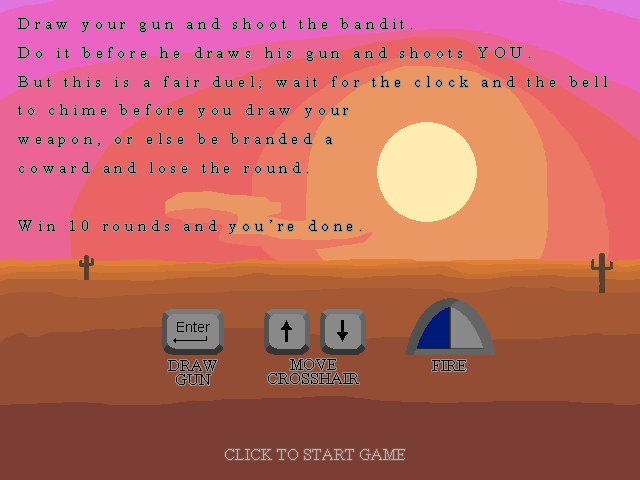
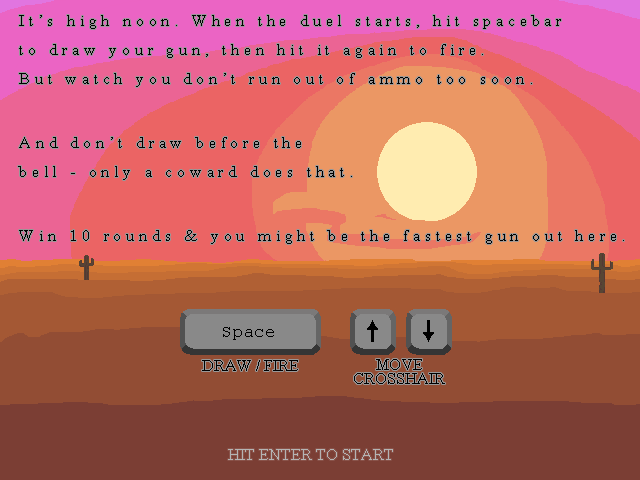
Update portfolio page, new images, blurbs, readme

diff --git a/portfolioGames.js b/portfolioGames.js
@@ -5,8 +5,13 @@ const games = [
   {
     name: "DEADWOOD DUEL",
     platform: "Stencyl",
-    images: ["images/games/dd/dd01.png", "images/games/dd/dd02.png"],
-    video: ["images/games/dd/dd_gameplay.webm"],
+    images: [
+      "images/games/dd/dd01.png",
+      "images/games/dd/dd02.png",
+      "images/games/dd/dd03.png",
+      "images/games/dd/dd04.png",
+    ],
+    video: [], // ["images/games/dd/dd_gameplay.webm"], ---> Restore this later maybe, getting videos for everything
     blurbLines: [
       "A reflex shooter set in the Old West.",
       "Choose your difficulty, watch the clock, and be quick - or be dead.",
@@ -17,7 +22,7 @@ const games = [
   },
   {
     name: "LOONY LAB",
-    platform: "Unity",
+    platform: "Unity with C#",
     images: [
       "images/games/ll/ll01.png",
       "images/games/ll/ll02.png",
@@ -27,8 +32,8 @@ const games = [
     video: [],
     blurbLines: [
       "Loony Lab was part of a research project headed by Steve Engels at the University of Toronto, studying the effectiveness of design changes in pedagogical techniques in videogames. The material was taken straight from high school curriculum.",
-      "Working with a partner, we created a game design document, recorded progress in a dev blog, ran playtests with various demographics including game industry professionals, conducted two rounds of research with the game using self-developed study instruments, and produced a final report on our findings.",
-      "I contributed code (C#), design, art, animation, and sound. Royalty-free visual assets were modified to suit our needs.",
+      "Working with a partner, the two of us created a game design document, recorded progress in a dev blog, ran playtests with various demographics including game industry professionals, conducted two rounds of research with the game using self-developed study instruments, and produced a final report on our findings.",
+      "I contributed code, design, art, animation, and sound. Royalty-free visual assets were modified to suit our needs.",
     ],
     linkURLs: [
       "data/downloads/LoonyLab_Winx86-64.zip",
@@ -45,19 +50,10 @@ const games = [
     blurbLines: [
       "A simple interactive ray tracer running on the CPU and built on top of the Eigen linear algebra library.",
       'RaylTime allows you to move around raytraced scenes in real-time, and features a text-based "level editing" system allowing you to quickly make new scenes which you can move around in.',
-      "RaylTime employs a number of raytracing optimizations including bounding volume hierarchies and specular highlights optimization, along with a lower resolution so that it can be run in real-time rather than offline.",
+      "RaylTime employs a number of raytracing optimizations including bounding volume hierarchies and specular highlights optimization to keep things running in real time.",
     ],
     linkURLs: ["https://www.google.ca", "https://github.com/NPTP/RaylTime"],
     linkTexts: ["TODO: Download for Windows", "Source on GitHub"],
-  },
-  {
-    name: "KCSHARE",
-    platform: "Web & Mobile with React & React Native",
-    images: ["images/index_placeholder1.jpg"],
-    video: [],
-    blurbLines: ["TODO!"],
-    linkURLs: ["https://github.com/NPTP/KCShare"],
-    linkTexts: ["Source on GitHub"],
   },
   {
     name: "GAME JAMS",
@@ -70,8 +66,8 @@ const games = [
     ],
     video: [],
     blurbLines: [
-      `For several game jams in Toronto, I've worked with a team consisting of a designer, an artist and a programmer, all of whom have experience either in AAA or indie game production. They're a truly talented bunch and it's been a privilege to do these jams with them under the team banner of "ButterBrains."`,
-      "We put or heads together to create the high-level designs for these games as a group. I did all sound and music, and some level design.",
+      `For several game jams in Toronto, I've worked with a team consisting of a designer, an artist and a programmer, all of whom have experience either in AAA or indie game production. They're a truly talented bunch and it's been a privilege to do these jams with them under the banner of "ButterBrains."`,
+      "We put or heads together and designed the games as a group. Additionally, I did all sound and music, and some level design.",
     ],
     linkURLs: [
       "https://butterbrains.itch.io/relapse",
@@ -87,22 +83,32 @@ const games = [
     ],
   },
   {
+    name: "KCSHARE",
+    platform: "Web & Mobile with React & React Native",
+    images: ["images/index_placeholder1.jpg"],
+    video: [],
+    blurbLines: [
+      "A combo web and mobile app with unique experiences for each, designed as a prototype for a private high school's new learning platform.",
+      "KCShare allows students to share their learning and unique experiences with other students and teachers in a low-pressure social space.",
+      "Working with a team, I contributed team leadership, web and mobile code, and design, as we translated client needs into finished product.",
+    ],
+    linkURLs: ["https://github.com/NPTP/KCShare"],
+    linkTexts: ["Source on GitHub"],
+  },
+  {
     name: "INDUSTRIAL SECTOR",
     platform: "GZDoom",
     images: [
-      "images/games/is/is01.png",
-      "images/games/is/is05.png",
-      "images/games/is/is02.png",
-      "images/games/is/is05.png",
-      "images/games/is/is03.png",
-      "images/games/is/is05.png",
-      "images/games/is/is04.png",
+      "images/games/industrialsector/is01.png",
+      "images/games/industrialsector/is02.png",
+      "images/games/industrialsector/is03.png",
+      "images/games/industrialsector/is04.png",
     ],
     video: [],
     blurbLines: [
       "A high-concept, grim post-apocalyptic mod for Doom (1993) built on a modern port of the game's open-source engine.",
-      "A work-in-progress passion project where I produce code, mapping, level design, music, sound design, animation, and narrative, while keeping the core of the game's assets and design in the classic Doom mould.",
-      "It's also using existing resources and tools made available by people in the incredible community around DooM that is still flourishing today.",
+      "A work-in-progress passion project where I produce code, levels, music, sound, animation, and narrative, while keeping the core of the game's assets and design in the classic Doom mould.",
+      "I'm also using resources and tools made available by people in the incredible community around DooM that is still flourishing to this day.",
     ],
     linkURLs: [],
     linkTexts: [],

diff --git a/portfolio.js b/portfolio.js
@@ -3,6 +3,9 @@
 // Uses the "games" array from portfolioGames.js
 // ------------------------------------
 
+// Time between images in portfolio item auto-slideshow
+const SLIDESHOW_TIMEOUT_VAL = 2000;
+
 // Get viewport height and width dependent on CSS compat
 const docElement =
   document.compatMode === "CSS1Compat"
@@ -30,7 +33,7 @@ function displayImages(images) {
   if (displaying) {
     call = setTimeout(function () {
       displayImages(images);
-    }, 1000);
+    }, SLIDESHOW_TIMEOUT_VAL);
   }
 }
 

diff --git a/README.md b/README.md
@@ -23,10 +23,10 @@ https://www.figma.com/file/DJxw5mQICWUH8DLpjCvnoM/NPWeb
 - Replace all vh sizing with vw sizing (for proportional vertical margins when resizing horizontally)
 
 ### Portfolio page
-- Complete the cards for each project
-  - Blurbs
-  - Links
-  - Visual media (animations, videos, screenshots)
+- Complete the cards for each project: blurb, links, visuals (just image slideshows for now, videos at some point in future).
+- Incomplete:
+  - KCShare (needs images/video)
+  - RaylTime (needs images/video)
 
 ### About page
 - Make page consistent with the others, clean up design (content is fine)
